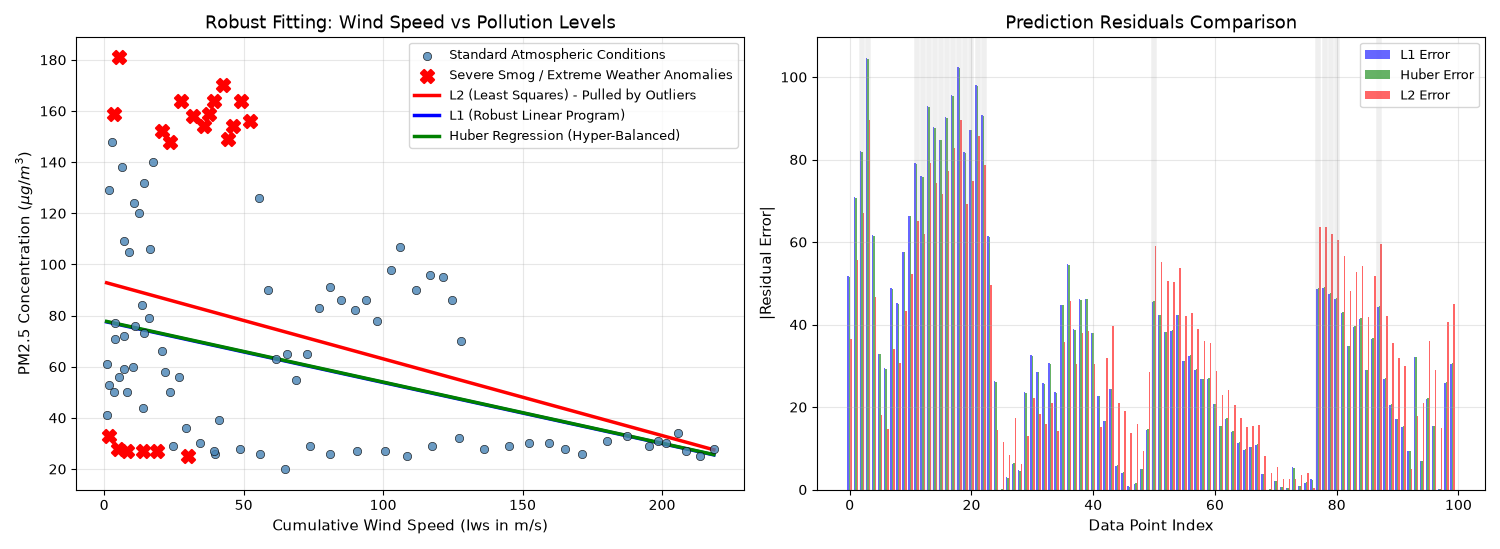
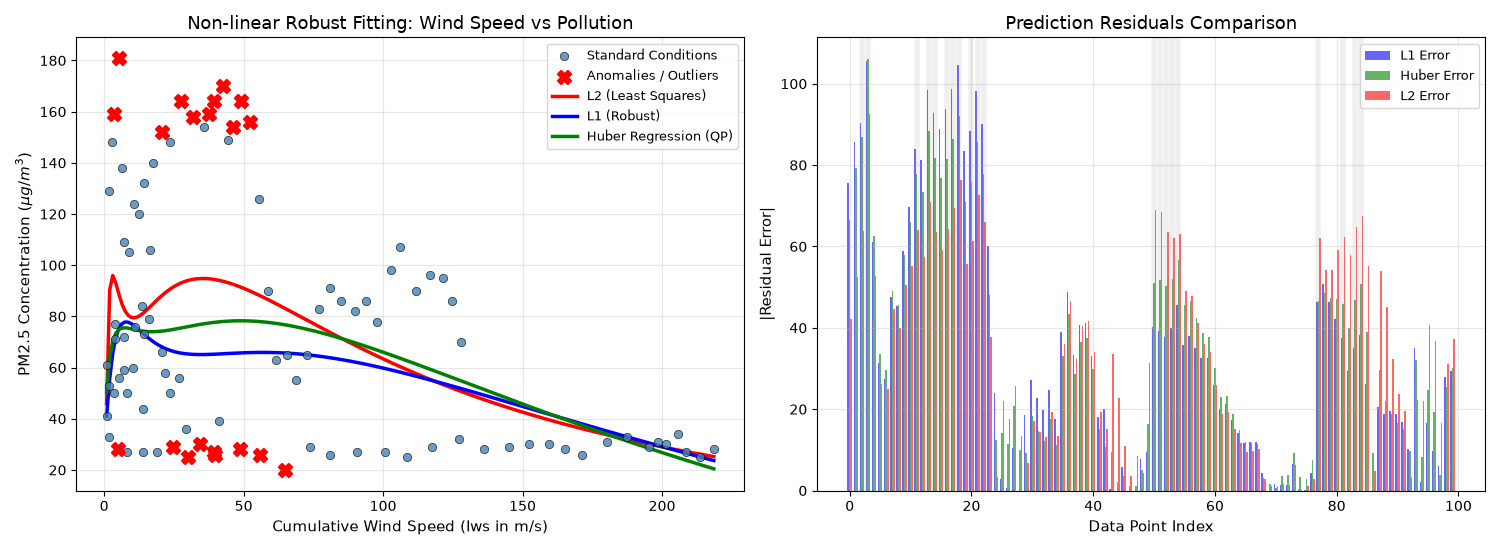
change paramters and lib and graph becuase of Leo's mail

diff --git a/main.py b/main.py
@@ -5,9 +5,21 @@ REAL-WORLD DATASET: Cumulative wind speed (Iws) as the primary feature and PM2.5
 """
 
 import numpy as np
-from scipy.optimize import linprog, minimize
+import cvxpy as cp
 import matplotlib.pyplot as plt
 import time
+
+def create_features(x):
+    """
+    Creates non-linear features to increase the dimensionality of the problem
+    and better fit the non-linear data.
+    Features: 1/(a_k + x) where a_k in {1, 10, 20, 50, 100}
+    """
+    a_k = [1, 10, 20, 50, 100]
+    features = [1 / (a + x) for a in a_k]
+    # Add intercept (column of ones)
+    features.append(np.ones_like(x))
+    return np.column_stack(features)
 
 
 def l1_regression(A, y):
@@ -28,33 +40,15 @@ def l1_regression(A, y):
     ndarray
         Optimal model parameters (slope and intercept coefficients).
     """
-    num_samples, num_features = A.shape
+    num_features = A.shape[1]
+    x = cp.Variable(num_features)
 
-    # Cost vector: 0 weight on coefficients, 1 weight on error slacks (s)
-    cost_vector = np.concatenate([np.zeros(num_features), np.ones(num_samples)])
+    # Objective: Minimize L1 norm of residuals
+    objective = cp.Minimize(cp.norm1(A @ x - y))
+    prob = cp.Problem(objective)
+    prob.solve()
 
-    # Construct block constraint matrices to represent absolute values linearly
-    identity_block = np.eye(num_samples)
-    upper_bound_matrix = np.hstack([A, -identity_block])
-    lower_bound_matrix = np.hstack([-A, -identity_block])
-
-    # Vertical stack enforces: A*x - s <= y AND -A*x - s <= -y
-    constraint_matrix_G = np.vstack([upper_bound_matrix, lower_bound_matrix])
-    constraint_vector_h = np.concatenate([y, -y])
-
-    # Define optimization search boundaries
-    feature_bounds = [(None, None)] * num_features # Weights can be any real number
-    slack_bounds = [(0, None)] * num_samples # Absolute errors must be non-negative
-    combined_bounds = feature_bounds + slack_bounds
-
-    # Solve the system using the high-performance HiGHS solver
-    optimization_result = linprog(cost_vector, A_ub=constraint_matrix_G, b_ub=constraint_vector_h, bounds=combined_bounds, method='highs')
-
-    if not optimization_result.success:
-        raise ValueError(f"Linear Programming solver failed: {optimization_result.message}")
-
-    # Slice out and return only the calculated feature weights
-    return optimization_result.x[:num_features]
+    return x.value
 
 
 def l2_regression(A, y):
@@ -72,12 +66,18 @@ def l2_regression(A, y):
     ndarray
         Optimal model parameters vulnerable to outlier distortions.
     """
-    # Computes the exact algebraic closed-form solution using SVD decomposition
-    optimal_weights, _, _, _ = np.linalg.lstsq(A, y, rcond=None)
-    return optimal_weights
+    num_features = A.shape[1]
+    x = cp.Variable(num_features)
+
+    # Objective: Minimize L2 norm (sum of squares) of residuals
+    objective = cp.Minimize(cp.sum_squares(A @ x - y))
+    prob = cp.Problem(objective)
+    prob.solve()
+
+    return x.value
 
 
-def huber_regression(A, y, delta=10.0):
+def huber_regression(A, y, delta=15.0):
     """Computes smooth, robust Huber regression using the BFGS optimization method.
 
     Parameters:
@@ -94,29 +94,36 @@ def huber_regression(A, y, delta=10.0):
     ndarray
         Optimal robust model parameters.
     """
-    def evaluation_huber_loss(weights):
-        """Internal objective function to compute piecewise Huber loss."""
-        prediction_residuals = A @ weights - y
-        absolute_residuals = np.abs(prediction_residuals)
+    num_samples, num_features = A.shape
 
-        # Switch mathematically between L2 squared tracking and L1 robust tracking
-        total_calculated_loss = np.where(absolute_residuals <= delta,
-                        0.5 * prediction_residuals**2,
-                        delta * (absolute_residuals - 0.5 * delta))
-        return np.sum(total_calculated_loss)
+    # Variables
+    x = cp.Variable(num_features)
+    u = cp.Variable(num_samples) # L2 portion of the error
+    p = cp.Variable(num_samples) # Positive part of L1 error
+    q = cp.Variable(num_samples) # Negative part of L1 error
 
-    # Use the fast L2 solution as the starting coordinate guess for optimization
-    initial_guess_x0 = l2_regression(A, y)
+    # Objective: 0.5 * ||u||_2^2 + delta * sum(|v|)
+    # Since |v| = p + q, we write:
+    objective = cp.Minimize(0.5 * cp.sum_squares(u) + delta * cp.sum(p + q))
 
-    # Optimize iteratively via quasi-Newton BFGS gradient approximation
-    optimization_result = minimize(evaluation_huber_loss, initial_guess_x0, method='BFGS')
-    return optimization_result.x
+    # Constraints:
+    # 1. Total residual matches A*x - y
+    # 2. p and q must be non-negative
+    constraints = [
+        A @ x - y == u + p - q,
+        p >= 0,
+        q >= 0
+    ]
+
+    prob = cp.Problem(objective, constraints)
+    prob.solve() # CVXPY will automatically use a QP solver (like OSQP)
+
+    return x.value
 
 
 # =============================================================================
 # DATA LOADING
 # =============================================================================
-
 
 def load_environmental_data(file_path="pollution.csv"):
     """Downloads historical environmental data from Beijing to evaluate robust loss functions.
@@ -141,12 +148,13 @@ def load_environmental_data(file_path="pollution.csv"):
         The raw wind speed values (Iws) of shape (N,).
     """
     print(f"Loading dataset from local file path: '{file_path}'...")
-
     try:
         # Load directly from the local project file
-        raw_data = np.genfromtxt(
-            file_path, delimiter=",", skip_header=1, usecols=(10, 5)
-        )
+        raw_data = np.genfromtxt(file_path, delimiter=",", skip_header=1, usecols=(10, 5))
+        clean_mask = ~np.isnan(raw_data).any(axis=1)
+        data = raw_data[clean_mask]
+        wind_speed = data[:100, 0]
+        pm25 = data[:100, 1]
     except Exception as e:
         print(f"Local file not found or corrupted: {e}")
         print("Falling back to synthetic matrix for continuity...")
@@ -160,26 +168,13 @@ def load_environmental_data(file_path="pollution.csv"):
             129.0, 145.0, 110.0, 95.0, 80.0, 150.0, 120.0, 75.0, 50.0, 180.0,
             35.0, 22.0, 165.0, 138.0, 195.0, 12.1, 15.3, 1.5, 4.0, 5.1
         ])
-        outlier_idx = np.array([15, 16, 17, 18, 19])
-        A = np.column_stack([wind_speed, np.ones(len(wind_speed))])
-        return A, pm25, outlier_idx, wind_speed
 
-    # Filter out missing values rows
-    clean_mask = ~np.isnan(raw_data).any(axis=1)
-    data = raw_data[clean_mask]
+    # Use the new nonlinear features function
+    A = create_features(wind_speed)
 
-    # Select evaluation sample slice
-    wind_speed = data[:100, 0]
-    pm25 = data[:100, 1]
-
-    # Assemble design matrix with intercept bias
-    A = np.column_stack([wind_speed, np.ones(len(wind_speed))])
-
-    # Compute baseline errors to identify leverage anomalies
-    x_l2 = l2_regression(A, pm25)
-    residuals = np.abs(A @ x_l2 - pm25)
-
-    # Flag data items in the top 20% of errors as outliers
+    # Identify outliers based on standard L2 fit
+    x_l2_baseline = l2_regression(A, pm25)
+    residuals = np.abs(A @ x_l2_baseline - pm25)
     outlier_idx = np.where(residuals > np.percentile(residuals, 80))[0]
 
     return A, pm25, outlier_idx, wind_speed
@@ -188,9 +183,9 @@ def load_environmental_data(file_path="pollution.csv"):
 def main():
     # Load Dataset
     A, pm25, outlier_idx, wind_speed = load_environmental_data()
-    m = len(wind_speed)
+    m, num_features = A.shape
 
-    # Fit models on Data
+    # Fit models on Data and measure time
     start = time.time()
     x_l1 = l1_regression(A, pm25)
     t_l1 = time.time() - start
@@ -205,47 +200,61 @@ def main():
     t_huber = time.time() - start
 
     print("=" * 70)
-    print("DATASET: Beijing Environmental Data (Wind Speed vs PM2.5)")
+    print(f"Number of Decision Variables: {num_features}")
     print("=" * 70)
-    print(f"Dataset Size: {m} Data Points")
-    print(f"Detected Environmental Outliers: {len(outlier_idx)} points")
-    print("-" * 70)
-    print(f"{'Model':<12} {'Estimated Slope':<20} {'Estimated Intercept':<20}")
-    print(f"{'L2 (LS)':<12} {x_l2[0]:<20.4f} {x_l2[1]:<20.4f}")
-    print(f"{'L1 (Robust)':<12} {x_l1[0]:<20.4f} {x_l1[1]:<20.4f}")
-    print(f"{'Huber':<12} {x_huber[0]:<20.4f} {x_huber[1]:<20.4f}")
-    print("-" * 70)
-    print(f"Execution Times: L2={t_l2*1000:.2f}ms | L1={t_l1*1000:.2f}ms | Huber={t_huber*1000:.2f}ms")
+    print(f"Execution Times (CVXPY Solvers):")
+    print(f"L2: {t_l2*1000:.2f}ms | L1: {t_l1*1000:.2f}ms | Huber (QP): {t_huber*1000:.2f}ms")
     print("=" * 70)
-
     # --- Visualization ---
-    fig, axes = plt.subplots(1, 2, figsize=(15, 5.5))
-
     # Plot 1: Fitted Lines
-    ax = axes[0]
+
+    fig1, ax1 = plt.subplots(figsize=(8, 5.5))
+
     t_plot = np.linspace(wind_speed.min(), wind_speed.max(), 200)
+    A_plot = create_features(t_plot)
 
     mask = np.ones(m, dtype=bool)
     mask[outlier_idx] = False
 
-    ax.scatter(wind_speed[mask], pm25[mask], c='steelblue', alpha=0.8,
-               edgecolors='k', linewidths=0.5, label='Standard Atmospheric Conditions', zorder=3)
-    ax.scatter(wind_speed[outlier_idx], pm25[outlier_idx], c='red', marker='X',
-               s=90, linewidths=1.5, label='Severe Smog / Extreme Weather Anomalies', zorder=4)
+    ax1.scatter(
+        wind_speed[mask],
+        pm25[mask],
+        c="steelblue",
+        alpha=0.8,
+        edgecolors="k",
+        linewidths=0.5,
+        label="Standard Conditions",
+        zorder=3,
+    )
 
-    # Plot lines
-    ax.plot(t_plot, x_l2[0]*t_plot + x_l2[1], 'r-', lw=2.5, label='L2 (Least Squares) - Pulled by Outliers')
-    ax.plot(t_plot, x_l1[0]*t_plot + x_l1[1], 'b-', lw=2.5, label='L1 (Robust Linear Program)')
-    ax.plot(t_plot, x_huber[0]*t_plot + x_huber[1], 'g-', lw=2.5, label='Huber Regression (Hyper-Balanced)')
+    ax1.scatter(
+        wind_speed[outlier_idx],
+        pm25[outlier_idx],
+        c="red",
+        marker="X",
+        s=90,
+        linewidths=1.5,
+        label="Anomalies / Outliers",
+        zorder=4,
+    )
 
-    ax.set_xlabel("Cumulative Wind Speed (Iws in m/s)", fontsize=11)
-    ax.set_ylabel(r"PM2.5 Concentration ($\mu g/m^3$)", fontsize=11)
-    ax.set_title("Robust Fitting: Wind Speed vs Pollution Levels", fontsize=13)
-    ax.legend(fontsize=9)
-    ax.grid(True, alpha=0.3)
+    ax1.plot(t_plot, A_plot @ x_l2, "r-", lw=2.5, label="L2 (Least Squares)")
+    ax1.plot(t_plot, A_plot @ x_l1, "b-", lw=2.5, label="L1 (Robust)")
+    ax1.plot(t_plot, A_plot @ x_huber, "g-", lw=2.5, label="Huber Regression (QP)")
+
+    ax1.set_xlabel("Cumulative Wind Speed (Iws in m/s)", fontsize=11)
+    ax1.set_ylabel(r"PM2.5 Concentration ($\mu g/m^3$)", fontsize=11)
+    ax1.set_title("Non-linear Robust Fitting: Wind Speed vs Pollution", fontsize=13)
+    ax1.legend(fontsize=9)
+    ax1.grid(True, alpha=0.3)
+
+    fig1.tight_layout()
+    fig1.savefig("robust fitting.png", dpi=300, bbox_inches="tight")
 
     # Plot 2: Absolute residuals on Data
-    ax = axes[1]
+
+    fig2, ax2 = plt.subplots(figsize=(8, 5.5))
+
     residuals_l1 = np.abs(A @ x_l1 - pm25)
     residuals_l2 = np.abs(A @ x_l2 - pm25)
     residuals_huber = np.abs(A @ x_huber - pm25)
@@ -253,22 +262,46 @@ def main():
     indices = np.arange(m)
     bar_width = 0.25
 
-    ax.bar(indices - bar_width, residuals_l1, bar_width, color='blue', alpha=0.6, label='L1 Error')
-    ax.bar(indices, residuals_huber, bar_width, color='green', alpha=0.6, label='Huber Error')
-    ax.bar(indices + bar_width, residuals_l2, bar_width, color='red', alpha=0.6, label='L2 Error')
+    ax2.bar(
+        indices - bar_width,
+        residuals_l1,
+        bar_width,
+        color="blue",
+        alpha=0.6,
+        label="L1 Error",
+    )
+
+    ax2.bar(
+        indices,
+        residuals_huber,
+        bar_width,
+        color="green",
+        alpha=0.6,
+        label="Huber Error",
+    )
+
+    ax2.bar(
+        indices + bar_width,
+        residuals_l2,
+        bar_width,
+        color="red",
+        alpha=0.6,
+        label="L2 Error",
+    )
 
     for idx in outlier_idx:
-        ax.axvline(x=idx, color='gray', alpha=0.12, linewidth=4)
+        ax2.axvline(x=idx, color="gray", alpha=0.12, linewidth=4)
 
-    ax.set_xlabel('Data Point Index', fontsize=11)
-    ax.set_ylabel('|Residual Error|', fontsize=11)
-    ax.set_title('Prediction Residuals Comparison', fontsize=13)
-    ax.legend(fontsize=9)
-    ax.grid(True, alpha=0.3)
+    ax2.set_xlabel("Data Point Index", fontsize=11)
+    ax2.set_ylabel("|Residual Error|", fontsize=11)
+    ax2.set_title("Prediction Residuals Comparison", fontsize=13)
+    ax2.legend(fontsize=9)
+    ax2.grid(True, alpha=0.3)
 
-    plt.tight_layout()
+    fig2.tight_layout()
+    fig2.savefig("residual error.png", dpi=300, bbox_inches="tight")
+
     plt.show()
-
 
 if __name__ == "__main__":
     main()
